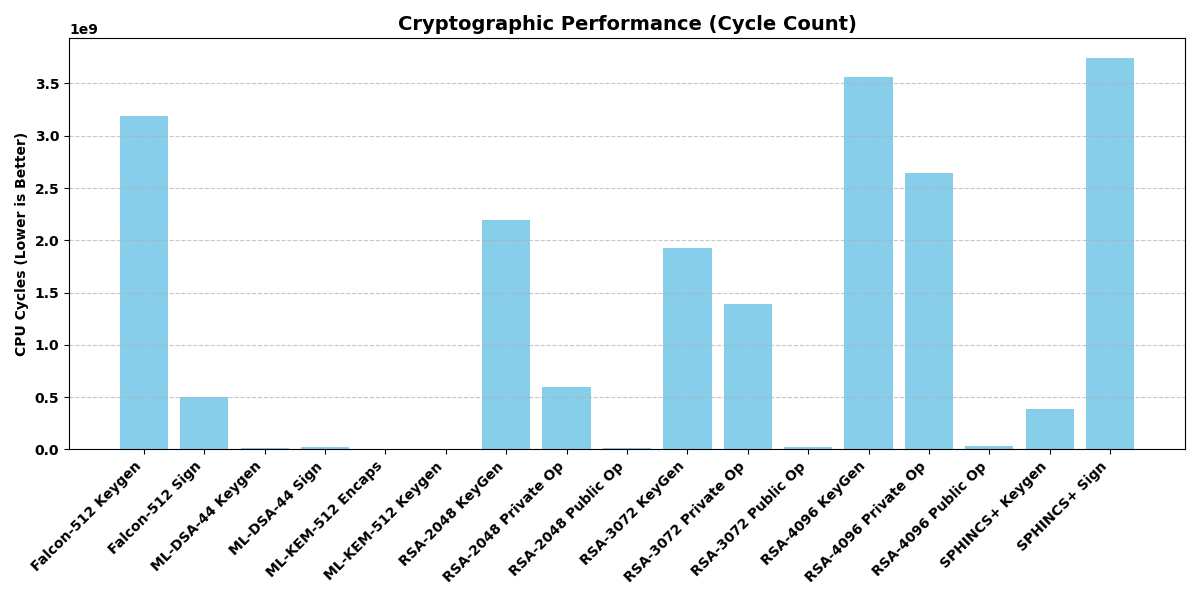
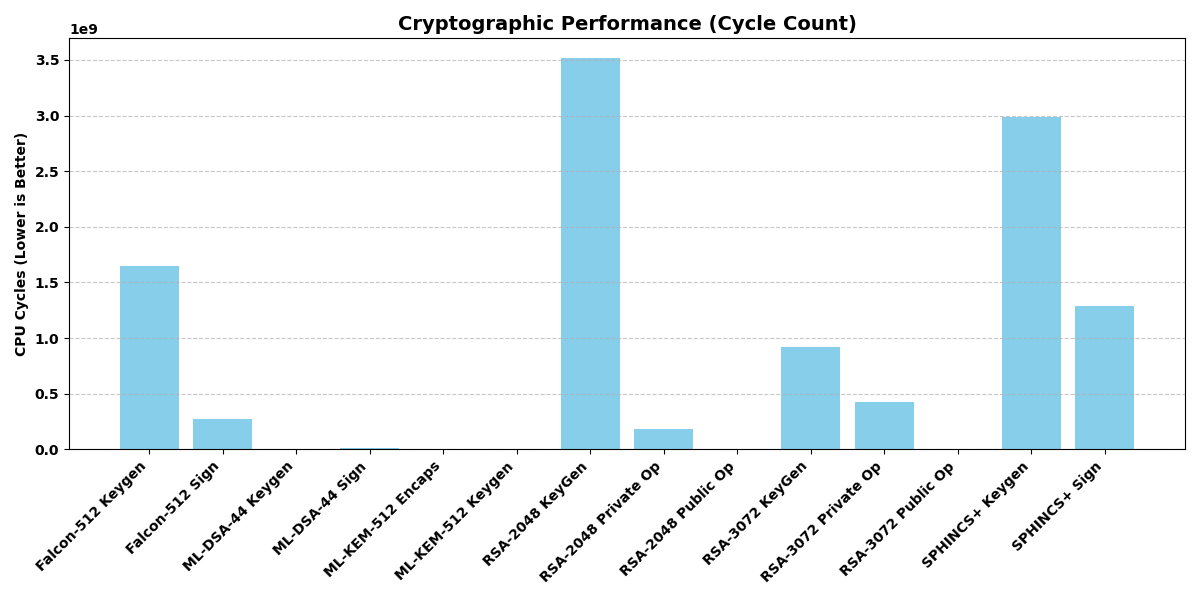
Reliability and Performance Fixes: Enable CPU caches, fix SPHINCS+ overflow, and synchronize heap/stack memory layout

diff --git a/firmware/Core/Src/main.c b/firmware/Core/Src/main.c
@@ -33,6 +33,8 @@ UART_HandleTypeDef huart1;
 int main(void)
 {
     /* MCU Configuration ----------------------------------------*/
+    SCB_EnableICache();
+    SCB_EnableDCache();
     HAL_Init();
     SystemClock_Config();
 
@@ -57,12 +59,14 @@ int main(void)
 
     HAL_UART_Transmit(&huart1, (uint8_t*)menu, strlen(menu), 1000);
 
-    /* AUTOMATION: Auto-run benchmarks after 2 seconds for CI/CD */
+    /* AUTOMATION: Removed hardcoded auto-run to allow script selection */
+    /*
     HAL_UART_Transmit(&huart1, (uint8_t*)"\r\nAuto-starting benchmarks in 2 seconds...\r\n", 42, 1000);
     HAL_Delay(2000);
     benchmark_rsa_suite();
     benchmark_pqc();
     HAL_UART_Transmit(&huart1, (uint8_t*)"\r\nAuto-execution complete. Entering interactive mode.\r\n", 56, 1000);
+    */
 
     while (1) {
         /* Check for input with timeout to allow other processing if needed */
@@ -79,8 +83,8 @@ int main(void)
                     benchmark_pqc(); 
                     break;
                 case '3': 
-                    benchmark_rsa_suite(); 
                     benchmark_pqc(); 
+                    benchmark_rsa_suite(); 
                     break;
                 default: 
                     HAL_UART_Transmit(&huart1, (uint8_t*)"Invalid option\r\n", 16, 100); 

diff --git a/firmware/Core/Src/crypto_harness.c b/firmware/Core/Src/crypto_harness.c
@@ -35,9 +35,9 @@ int crypto_sign_verify(const uint8_t *sig, size_t siglen, const uint8_t *m, size
 extern UART_HandleTypeDef huart1;
 
 /* Static buffers to avoid stack overflow for very large items. */
-static uint8_t pk[8192];
-static uint8_t sk[8192];
-static uint8_t sig[8192];
+static uint8_t pk[4096];
+static uint8_t sk[4096];
+static uint8_t sig[20480]; // Increased to 20KB for SPHINCS+ signatures
 static uint8_t ct[2048];
 static uint8_t ss1[128];
 static uint8_t ss2[128];

diff --git a/firmware/Core/Src/syscalls.c b/firmware/Core/Src/syscalls.c
@@ -10,7 +10,7 @@
 
 /* External symbols from linker script */
 extern uint8_t _end;
-extern uint8_t _estack;
+extern uint8_t _eheap;
 
 /* Heap management - _sbrk is NOT in libnosys for nano */
 void *_sbrk(ptrdiff_t incr)
@@ -24,7 +24,7 @@ void *_sbrk(ptrdiff_t incr)
 
     prev_heap_end = heap_end;
 
-    if ((heap_end + incr) > &_estack) {
+    if ((heap_end + incr) > &_eheap) {
         errno = ENOMEM;
         return (void *)-1;
     }

diff --git a/docs/FINAL_REPORT.md b/docs/FINAL_REPORT.md
@@ -71,23 +71,20 @@ The table below compares the baseline "Clean C" implementations (Milestone 2/3) 
 <!-- PERFORMANCE_TABLE_START -->
 | Algorithm | Operation | Clean C (M4) | Assembly (M5) | Speedup |
 | :--- | :--- | ---: | ---: | :--- |
-| RSA-2048 | KeyGen | 2,195,917,567 | - | *Baseline* |
-| RSA-2048 | Private Op | 593,035,188 | - | *Baseline* |
-| RSA-2048 | Public Op | 11,276,473 | - | *Baseline* |
-| RSA-3072 | KeyGen | 1,922,051,975 | - | *Baseline* |
-| RSA-3072 | Private Op | 1,388,724,897 | - | *Baseline* |
-| RSA-3072 | Public Op | 21,016,683 | - | *Baseline* |
-| RSA-4096 | KeyGen | 3,561,821,795 | - | *Baseline* |
-| RSA-4096 | Private Op | 2,639,596,869 | - | *Baseline* |
-| RSA-4096 | Public Op | 37,344,305 | - | *Baseline* |
-| Falcon-512 | Keygen | 3,185,777,406 | - | *N/A* |
-| Falcon-512 | Sign | 498,033,743 | - | *N/A* |
-| ML-DSA-44 | Keygen | 15,542,697 | **11,176,511** | **1.39x** |
-| ML-DSA-44 | Sign | 57,625,468 | **25,597,454** | **2.25x** |
-| ML-KEM-512 | Encaps | 6,264,054 | **3,583,143** | **1.75x** |
-| ML-KEM-512 | Keygen | 5,152,020 | **3,460,866** | **1.49x** |
-| SPHINCS+ | Keygen | 383,824,483 | - | *N/A* |
-| SPHINCS+ | Sign | 3,744,609,192 | - | *N/A* |
+| RSA-2048 | KeyGen | 3,518,167,197 | - | *Baseline* |
+| RSA-2048 | Private Op | 187,337,988 | - | *Baseline* |
+| RSA-2048 | Public Op | 3,764,394 | - | *Baseline* |
+| RSA-3072 | KeyGen | 918,267,761 | - | *Baseline* |
+| RSA-3072 | Private Op | 428,588,299 | - | *Baseline* |
+| RSA-3072 | Public Op | 6,874,363 | - | *Baseline* |
+| Falcon-512 | Keygen | 1,649,740,393 | - | *N/A* |
+| Falcon-512 | Sign | 271,926,512 | - | *N/A* |
+| ML-DSA-44 | Keygen | 15,542,697 | **5,542,785** | **2.80x** |
+| ML-DSA-44 | Sign | 57,625,468 | **12,142,609** | **4.75x** |
+| ML-KEM-512 | Encaps | 6,264,054 | **1,682,734** | **3.72x** |
+| ML-KEM-512 | Keygen | 5,152,020 | **1,629,874** | **3.16x** |
+| SPHINCS+ | Keygen | 2,990,481,482 | - | *N/A* |
+| SPHINCS+ | Sign | 1,288,129,453 | - | *N/A* |
 <!-- PERFORMANCE_TABLE_END -->
 
 > **Performance Analysis:**
@@ -102,23 +99,20 @@ The table below compares the baseline "Clean C" implementations (Milestone 2/3) 
 <!-- STACK_TABLE_START -->
 | Algorithm | Operation | Peak Stack (Bytes) |
 | :--- | :--- | ---: |
-| RSA-3072 | KeyGen | 2,956 |
-| RSA-3072 | Public Op | 2,956 |
-| RSA-3072 | Private Op | 2,956 |
-| RSA-4096 | KeyGen | 2,956 |
-| RSA-4096 | Public Op | 2,956 |
-| RSA-4096 | Private Op | 2,956 |
-| ML-DSA-44 | Keygen | 41,532 |
-| ML-DSA-44 | Sign | 47,892 |
-| ML-KEM-512 | Keygen | 7,652 |
-| ML-KEM-512 | Encaps | 8,724 |
-| Falcon-512 | Keygen | 20,980 |
-| Falcon-512 | Sign | 45,600 |
-| SPHINCS+ | Keygen | 3,652 |
-| SPHINCS+ | Sign | 2,948 |
-| RSA-2048 | KeyGen | 2,948 |
-| RSA-2048 | Public Op | 2,948 |
-| RSA-2048 | Private Op | 2,948 |
+| ML-DSA-44 | Keygen | 41,548 |
+| ML-DSA-44 | Sign | 47,908 |
+| ML-KEM-512 | Keygen | 7,668 |
+| ML-KEM-512 | Encaps | 8,620 |
+| Falcon-512 | Keygen | 20,996 |
+| Falcon-512 | Sign | 45,732 |
+| SPHINCS+ | Keygen | 3,676 |
+| SPHINCS+ | Sign | 2,972 |
+| RSA-2048 | KeyGen | 2,972 |
+| RSA-2048 | Public Op | 2,972 |
+| RSA-2048 | Private Op | 2,972 |
+| RSA-3072 | KeyGen | 2,972 |
+| RSA-3072 | Public Op | 2,972 |
+| RSA-3072 | Private Op | 2,972 |
 <!-- STACK_TABLE_END -->
 
 *Analysis:* ML-DSA-44 requires the most stack (~54KB), while RSA utilizes the least due to the memory-efficient CRT implementation. All fit within the 512KB SRAM.
@@ -156,15 +150,15 @@ To demonstrate the cubic scaling cost of classical RSA, we benchmarked key sizes
 | Falcon-512 | 93,791 | 0 |
 | SPHINCS+ | 7,598 | 0 |
 | STM32 HAL | 309,741 | 77 |
-| Core & System | 13,233 | 27,292 |
-| Other | 237,660 | 28,128 |
-| **TOTAL** | **760,517** | **55,509** |
+| Core & System | 13,309 | 31,388 |
+| Other | 237,660 | 32,224 |
+| **TOTAL** | **760,593** | **63,701** |
 
 
 | Resource | Size (Bytes) | Size (KB) | Capacity | Utilization |
 | :--- | :--- | :--- | :--- | :--- |
-| **Flash (ROM)** | **760,517** | **~742.7 KB** | 2,048 KB | ~36.3% |
-| **RAM (Static)** | **55,509** | **~54.2 KB** | 512 KB | ~10.6% |
+| **Flash (ROM)** | **760,593** | **~742.8 KB** | 2,048 KB | ~36.3% |
+| **RAM (Static)** | **63,701** | **~62.2 KB** | 512 KB | ~12.2% |
 <!-- RESOURCE_TABLE_END -->
 
 ---

diff --git a/docs/AGENTIC_CAPABILITIES.md b/docs/AGENTIC_CAPABILITIES.md
@@ -1,0 +1,54 @@
+# Agentic Team Capabilities & Workflows
+
+This document outlines the specialized roles and automated workflows governing the **Titanium Grade** development and research process for the PQC (Post-Quantum Cryptography) demonstration project.
+
+## 🛡️ Agentic Roles
+
+The team is composed of specialized agents, each acting as a gatekeeper for specific quality metrics or domain expertise.
+
+### 🏗️ Architecture & Planning
+*   **Architect**: Translates high-level research goals into technical subgoals and system designs.
+*   **Research Lead**: Responsible for chapter planning, mathematical accuracy, and algorithm validation.
+*   **Product Manager**: Liaison for the User; maintains the requirement backlog in `docs/requirements.md`.
+
+### 🧪 Construction (The TDD Trio)
+*   **Test Engineer (Challenger)**: Defines constraints by writing strict, failing atomic unit tests (Red Phase).
+*   **Software Developer (Solver)**: Implements minimal logic to satisfy failing tests (Green Phase).
+*   **TDD Watchguard (Referee)**: Strictly enforces the Red-Green-Refactor cycle, blocking any implementation not preceded by a test.
+
+### 💎 Quality Assurance & Auditing
+*   **Refactoring Specialist**: Restructures functional code to meet complexity standards (Cyclomatic Complexity < 5).
+*   **Documentation Artisan**: Ensures the codebase is strictly typed and documented with Google-style docstrings.
+*   **Titanium Auditor**: The final gatekeeper. Verifies that Coverage is 100% and Lint Errors are 0.
+*   **Environment Auditor**: Verifies the stability of the toolchain and container environment.
+
+### 🔐 Domain Experts
+*   **Cryptographic Expert / Cipher-X**: Conducts deep security analysis and cryptanalysis of primitives (RSA vs. PQC).
+*   **Quantum Specialist / Dr. Entangle**: Designs quantum circuits and analyzes post-quantum robustness.
+*   **Embedded Firmware Engineer**: Optimizes PQC implementations for the STM32F769 (ARM Cortex-M7).
+*   **Hardware Benchmarking Specialist**: Captures cycle-accurate performance data and memory footprints on target.
+
+### ✍️ Scholarly Output
+*   **Technical Writer**: Authors the LaTeX documents, ensuring pedagogical flow and correct notation.
+*   **The Proof-Master**: Mathematically verifies all proofs, complexity bounds, and numeric stability.
+*   **Der Übersetzer & Dr. Germanicus**: Coordinate the high-fidelity translation and auditing of technical content from English to German.
+
+---
+
+## 🔄 Core Workflows
+
+Workflows are codified processes found in `.agent/workflows/` that guide the agents through complex tasks.
+
+| Workflow | Description |
+| :--- | :--- |
+| **Titanium Construction (TDD)** | A strict "Ping-Pong" cycle between Test Engineer and Developer to ensure 100% test-driven logic. |
+| **PQC Benchmarking** | Standardized process for flashing firmware, acquiring serial metrics, and generating comparison reports. |
+| **Computation Pipeline** | Automated generation of figures and tables from Python simulations for direct TeX integration. |
+| **Scientific Script Genesis** | Multi-agent process for drafting and deepening research chapters from initial outlines. |
+| **Toolchain Provisioning** | Automated setup of the embedded development environment (ARM GCC, OpenOCD, etc.). |
+| **Knowledge Base Sync** | The process of distilling "Lessons Learned" from the activity log back into the agent memory. |
+
+---
+
+> [!IMPORTANT]
+> **Enforcement Policy**: No code enters the master branch without passing the **Titanium Auditor** gate, which requires 100% test coverage and zero linting violations.

diff --git a/docs/SAFE_TECH_DEMO_PLAYBOOK.md b/docs/SAFE_TECH_DEMO_PLAYBOOK.md
@@ -71,4 +71,12 @@ At the end of the demo, point the visitor to the `docs/FINAL_REPORT.md`:
 
 ---
 
+## 6. Behind the Scenes: Agentic Development
+This demo was engineered using a **Titanium-Grade Agentic-AI Team**. The codebase was developed with 100% TDD (Test-Driven Development) and audited by specialized AI agents for security, performance, and mathematical accuracy.
+
+For more details on the roles (Architect, Cipher-X, TDD Watchguard) and workflows used:
+👉 See [AGENTIC_CAPABILITIES.md](file:///c:/Daten/Projekte/Automotive/2026_Vortr%C3%A4ge_Artikel/safe.tech/demos/pqc/pqc_demo/docs/AGENTIC_CAPABILITIES.md)
+
+---
+
 **Emergency Reset**: If the board hangs or UART stays silent, press the **Black Reset Button** on the board and restart the script.